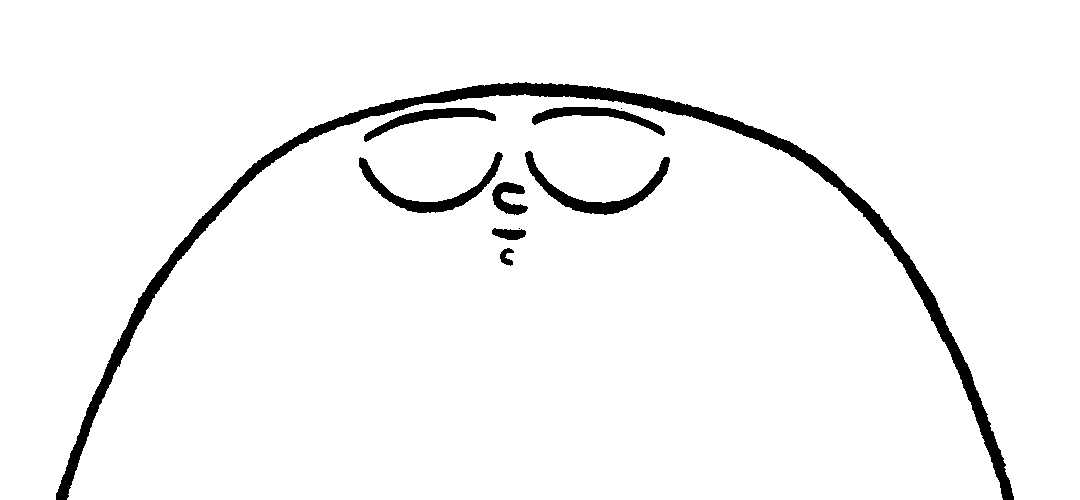
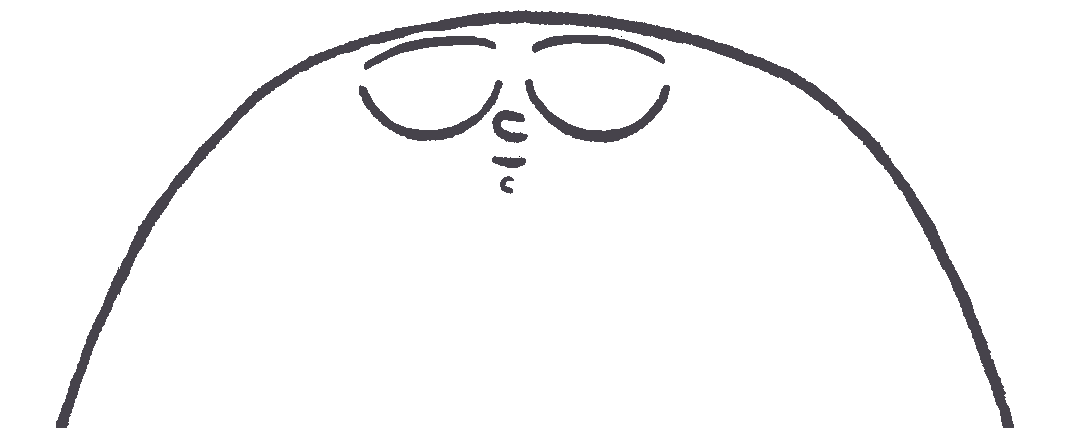
surprise bg and text now work

Changed region(s): [[0.0306, 0.1519, 0.9472, 1.0], [0.2444, 0.0, 0.7333, 0.2126]]

diff --git a/app/assets/stylesheets/components/_main.scss b/app/assets/stylesheets/components/_main.scss
@@ -2,6 +2,7 @@
   width: Calc(100% - 215px);
   background: $tranq1;
   max-height: 100vh;
+  position: relative;
 }
 .added__items{
   position: relative;
@@ -15,7 +16,7 @@
   bottom: 0;
   left: 0;
   right: 0;
-  height: 100%;
+  height: inherit;
   width: 100%;
   opacity: 0;
   background: rgb(85,85,80);
@@ -27,18 +28,36 @@
   width: 100%;
 }
 
+.show-wrapper {
+  max-height: 100vh;
+  overflow: hidden;
+}
+
 .bg-msg {
-  position: absolute;
+  opacity: 0.1;
+  transition: opacity 3s;
   display: flex;
   align-items: top;
   justify-content: center;
   flex-direction: column;
-  bottom: 0;
+  top: 0;
   width: calc(100% - 215px);
   z-index: 1;
   padding: 2%;
+  padding-top: 0;
+  color: $graylight1;
+  &:hover {
+    opacity: 0.8;
+  }
   img {
     width: 100%;
     height: auto;
+
+  }
+  .surprise-text {
+    padding: 2%;
+    font-size: 14px;
+    font-family: $body-font;
+    line-height: 1.5em;
   }
 }
